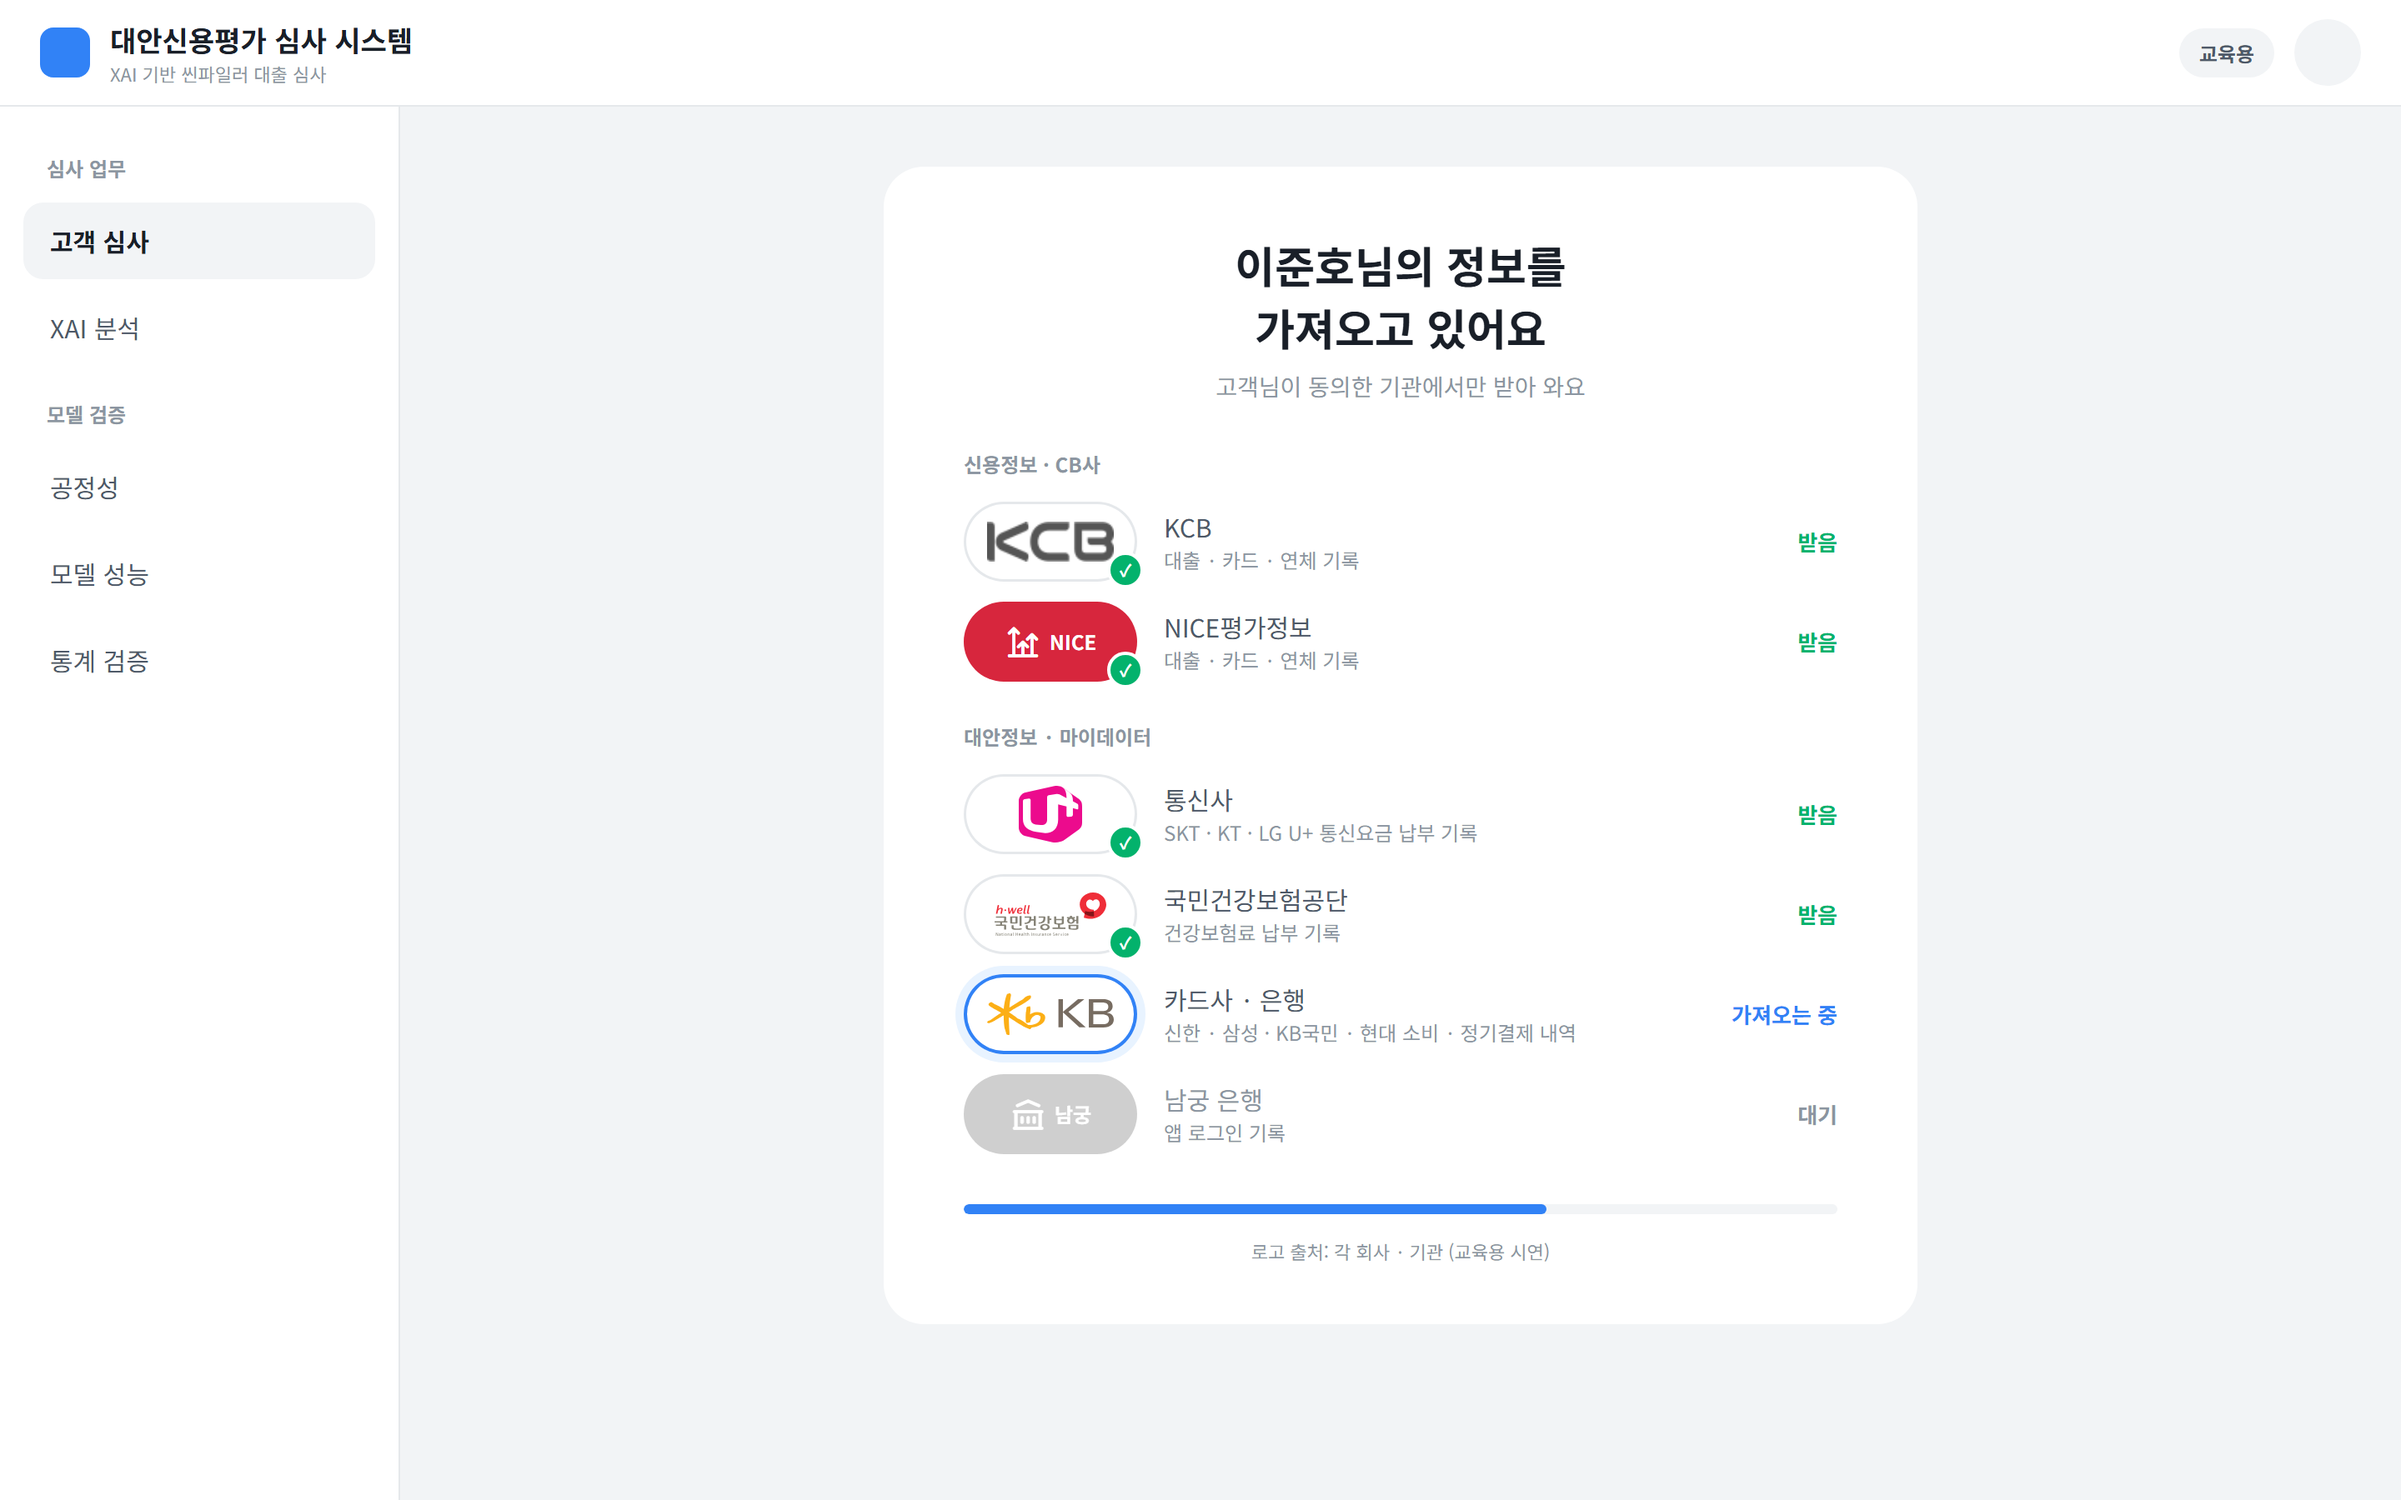
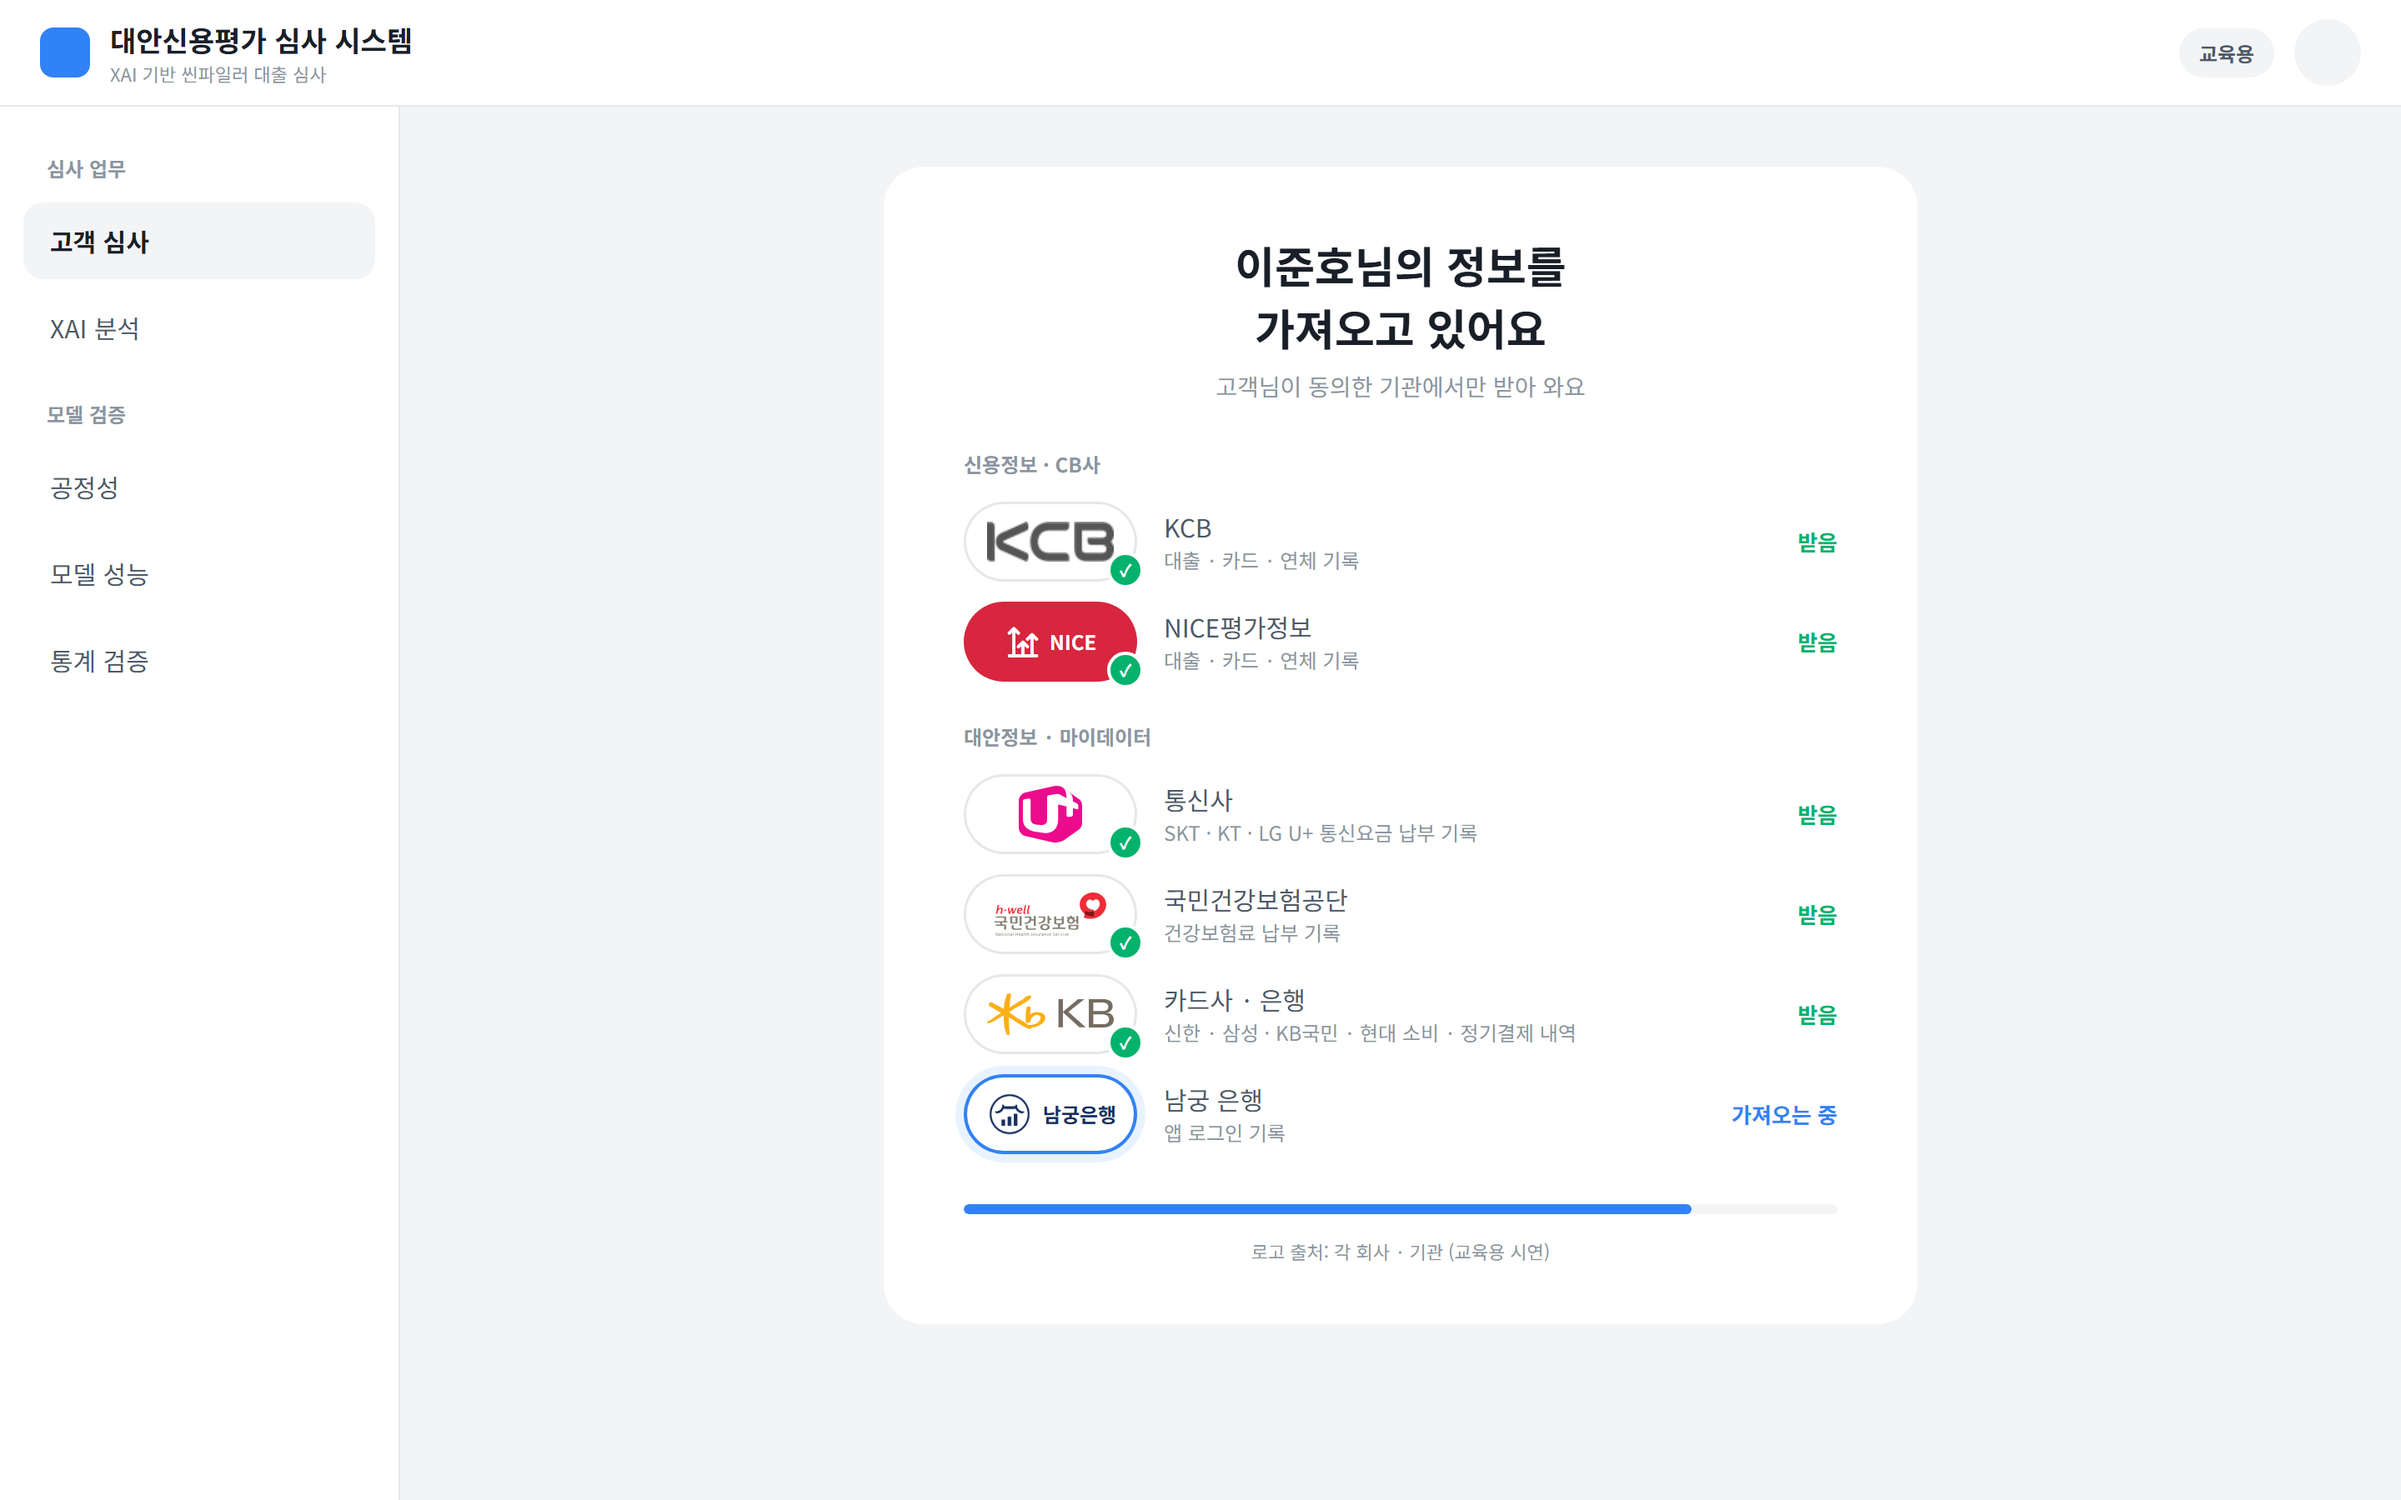
docs: 남궁은행 CI 반영

diff --git a/docs/issue-assets/screening-design/mock/loading.html b/docs/issue-assets/screening-design/mock/loading.html
@@ -11,6 +11,7 @@
 .lg i{font-size:22px;color:#FFF}
 .nice{background:#D7263D;box-shadow:none}.bank{background:var(--accent);box-shadow:none}
 .nice b,.bank b{color:#FFF;font-size:12px;margin-left:5px}
+.ng b{color:#183062;font-size:12px;font-weight:700;margin-left:5px;white-space:nowrap}
 .row .tx{flex:1;font-size:15px;color:var(--ink2)}.row .tx small{display:block;font-size:12px;color:var(--ink3)}
 .st{font-size:13px;font-weight:700;color:var(--ink3);width:74px;text-align:right}
 .row.done .st{color:var(--ok)}.row.doing .st{color:var(--accent)}
@@ -33,7 +34,7 @@
 <div class="row"><div class="lg" data-logos="logos/skt.svg,logos/kt.svg|sq,logos/lgu.svg|sq"><img alt="통신사"></div><div class="tx">통신사<small>SKT · KT · LG U+ 통신요금 납부 기록</small></div><span class="st"></span></div>
 <div class="row"><div class="lg"><img src="logos/nhis.svg" alt="국민건강보험공단"></div><div class="tx">국민건강보험공단<small>건강보험료 납부 기록</small></div><span class="st"></span></div>
 <div class="row"><div class="lg" data-logos="logos/shinhan.gif,logos/samsung.png,logos/kb.svg,logos/hyundai.svg"><img alt="카드사"></div><div class="tx">카드사 · 은행<small>신한 · 삼성 · KB국민 · 현대 소비 · 정기결제 내역</small></div><span class="st"></span></div>
-<div class="row"><div class="lg bank"><i class="ti ti-building-bank"></i><b>남궁</b></div><div class="tx">남궁 은행<small>앱 로그인 기록</small></div><span class="st"></span></div>
+<div class="row"><div class="lg ng"><img src="logos/namgung.png" alt="남궁은행" style="height:30px;width:30px"><b>남궁은행</b></div><div class="tx">남궁 은행<small>앱 로그인 기록</small></div><span class="st"></span></div>
 <div class="bar"><i id="bar"></i></div>
 <p class="src">로고 출처: 각 회사 · 기관 (교육용 시연)</p>
 </div></div></div>
